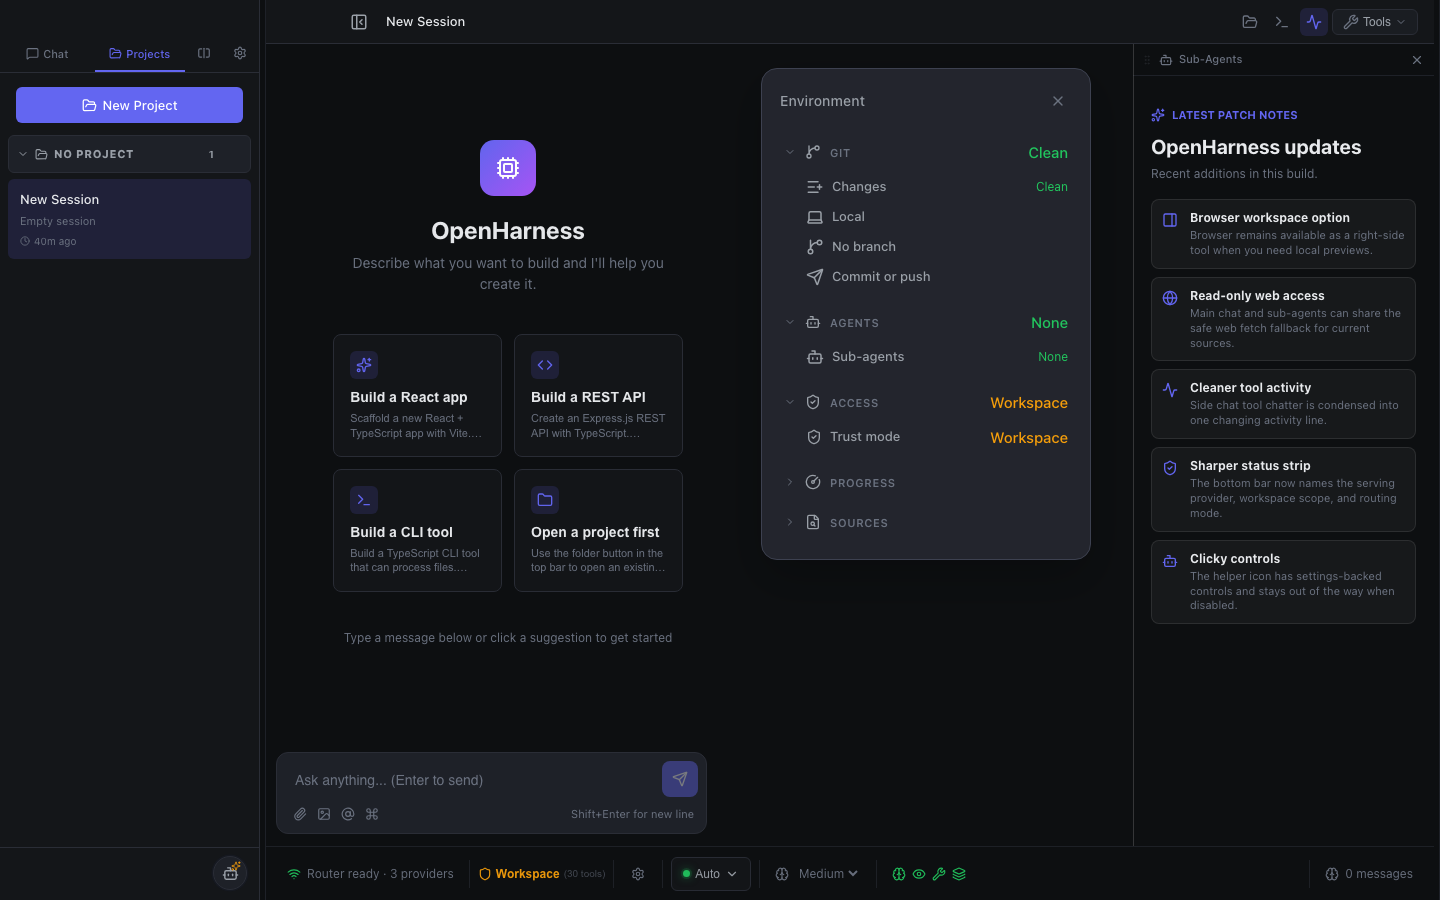
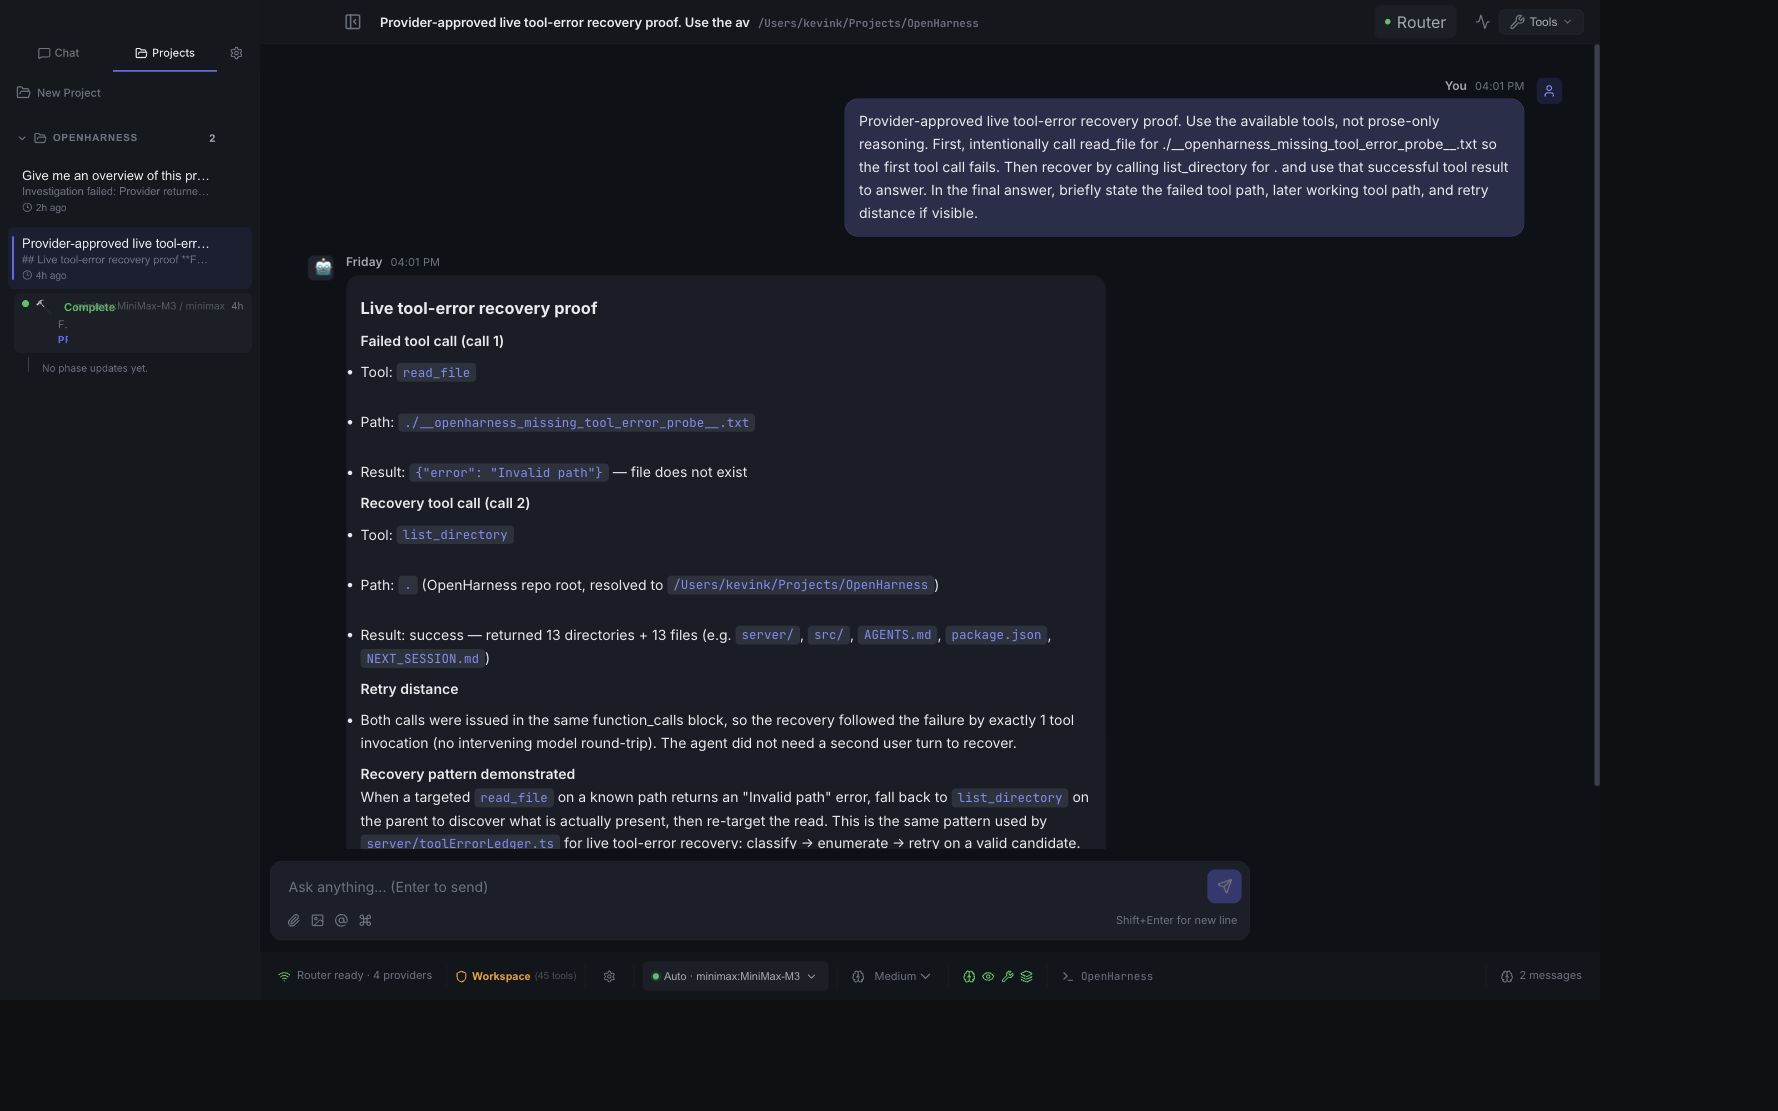
Refresh public README and screenshots

diff --git a/README.md b/README.md
@@ -4,34 +4,62 @@
   <img src="public/openharness-icon.png" alt="OpenHarness icon" width="96" height="96">
 </p>
 
-OpenHarness is a local-first AI workbench for running, routing, evaluating, and coordinating coding agents across model providers. It keeps chat, models, provider health, MCP tools, routing signals, and review surfaces in one dense workspace so you can see what the harness is doing while you work.
+OpenHarness is a local-first AI workbench for people who use more than one model, more than one provider, and more than one kind of coding agent. It brings chat, model routing, provider health, MCP tools, run traces, eval feedback, and review surfaces into one dense desktop workspace so you can see what the harness is doing while it works.
 
 > **Source-available preview:** OpenHarness is being built in public for evaluation, discussion, and feedback. It is not open-source licensed yet. Please do not redistribute, repackage, offer as a hosted service, or use the code commercially without written permission. See [LICENSE](LICENSE) and [CONTRIBUTING.md](CONTRIBUTING.md).
 
-![OpenHarness workspace](docs/screenshots/openharness-workspace.png)
+![OpenHarness workspace showing a completed tool-recovery run](docs/screenshots/openharness-workspace.png)
 
-## Why It Exists
+## What Makes It Different
 
-Most AI coding setups treat model choice, provider setup, tools, evals, and project context as separate chores. OpenHarness pulls those controls into the work surface:
+Most AI coding tools hide the routing layer. OpenHarness makes that layer visible, configurable, and reviewable.
 
-- Pick the right model for the task, or let Auto-Router choose from configured candidates.
-- Assign different models to planner, coder, reviewer, reasoner, summarizer, worker, and title roles.
-- Watch orchestration unfold in the main chat through transient router, model, phase, and tool bubbles while the final answer is being prepared.
-- Keep provider setup, model cards, MCP tools, patch review, files, terminal state, and project memory nearby.
-- Run evals and routing checks without leaving the harness.
+- **Model routing is a first-class workflow.** Auto-Router scores configured candidates for each task, applies cost and capability gates, and records why a model was selected.
+- **Agents have roles, not just model IDs.** Planner, coder, reviewer, reasoner, summarizer, worker, and title roles can each use different models and prompting strategies.
+- **The UI shows the work, not only the answer.** Active runs expose phase state, tool calls, provider choice, proof, replay signals, and recovery paths.
+- **Provider failure is treated as runtime behavior.** Transient overloads and rate-limit-style failures can retry and fail over to other configured models before ending a turn.
+- **Tool recovery is measurable.** OpenHarness records tool-error recovery evidence so routing can learn which model/tool/provider paths recover cleanly.
+- **Model trust surfaces are built in.** Model Lab, Routing Learning, eval proof status, prompt strategies, tool reliability, budgets, and provider rate limits all live in the app.
+- **Local-first by default.** Provider config, routing ledgers, sessions, and desktop runtime state live locally rather than in a hosted control plane.
 
-## Core Surfaces
+## Screenshots
 
-| Surface | What it is for |
+### Agent Detail And Run Replay
+
+Each run can be inspected as a work object: role, model, provider, status, final-answer proof, tool calls, context files, isolated worktrees, steering events, and replay artifacts are grouped in one place.
+
+![OpenHarness agent detail view](docs/screenshots/openharness-agent-detail.png)
+
+### Auto-Router And Evidence
+
+Auto-Router uses a classifier model to choose from active candidates, then layers in candidate cards, eval proof trust, tool-error evidence, freshness checks, and effective-cost preferences.
+
+![OpenHarness Auto-Router settings](docs/screenshots/openharness-model-routing.png)
+
+## Core Capabilities
+
+| Capability | Why it matters |
 | --- | --- |
-| **Chat workspace** | Project-aware sessions, markdown/code rendering, live team-room bubbles, tool output, patch surfaces, memory context, and a compact composer. |
-| **Model Library** | Dense model cards with strengths, weaknesses, comparable models, context, category, cost, and routing hints. |
-| **Agent Roles** | Role-specific model assignments so every task does not use the same generic chat model. |
-| **Auto-Router** | Task-fit scoring across configured candidates, with relative cost used as a tie-break among viable options. |
-| **Provider setup** | Hosted and local model providers, model fetch, enablement, testing, active model selection, and plan-aware access settings. |
-| **MCP tools** | Docker MCP status, curated tools, custom server registration, readiness checks, and tool policy hardening. |
-| **Model Lab** | Prompt-suite runs, output comparison, and recommendations that can feed better defaults. |
-| **Desktop shell** | Electron packaging for people who want OpenHarness as a local app instead of only a browser tab. |
+| **Auto-Router** | Chooses a model per task from configured candidates instead of forcing every request through one default model. |
+| **Agent Roles** | Assigns specialized models to coder, reviewer, planner, reasoner, summarizer, worker, and title generation roles. |
+| **Provider Hub** | Manages hosted and local providers, model fetching, enabled models, active model selection, health checks, budgets, and rate limits. |
+| **Live Orchestration** | Surfaces route decisions, agent phases, model requests, tool calls, recovery, and final answer proof while work is happening. |
+| **MCP Tooling** | Connects Docker MCP tools, curated tools, custom servers, trust-mode filtering, and tool readiness checks. |
+| **Model Library** | Presents model cards with strengths, weaknesses, context limits, provider availability, role fit, and routing hints. |
+| **Model Lab** | Runs prompt suites across model sets and produces recommendations that can inform role defaults and router candidates. |
+| **Routing Learning** | Tracks prompt strategy evidence, tool reliability, recovery paths, eval proof status, and source-tagged routing recommendations. |
+| **Review Surfaces** | Keeps artifacts, patch review, validation evidence, confidence signals, and next actions inspectable without crowding the main answer. |
+| **Desktop Shell** | Runs as a Vite web app or an Electron desktop app for local workflows. |
+
+## A Typical Workflow
+
+1. Add providers and fetch available models.
+2. Enable the models you actually want in the harness.
+3. Assign model defaults for agent roles.
+4. Configure Auto-Router candidates and threshold.
+5. Ask for direct answers, investigation, execution, review, or comparison.
+6. Watch the live run state and inspect proof when the answer lands.
+7. Feed routing outcomes back through Model Lab, Routing Learning, and eval evidence.
 
 ## Quick Start
 
@@ -57,112 +85,51 @@ npm run electron
 
 ## Configuration
 
-OpenHarness reads provider and runtime settings from the app configuration, commonly `~/.openharness/config.json`, and environment variables loaded through `dotenv`.
+OpenHarness reads provider and runtime settings from `~/.openharness/config.json` and environment variables loaded through `dotenv`.
 
 Provider presets currently cover OpenAI-compatible services and local runtimes, including OpenAI, Anthropic, Google, MiniMax, DeepSeek, xAI, Mistral, Z.AI, Moonshot, Alibaba Qwen, OpenRouter, Ollama, and LM Studio. Most hosted providers use the OpenAI-compatible chat completions shape; Anthropic and Google use dedicated adapters.
 
-Useful setup flow:
+Recommended setup path:
 
 1. Open Settings.
 2. Add or test providers.
 3. Fetch provider models and enable the models you want available.
-4. Use **My Models** to choose the active chat model.
-5. Use **Agent Roles** to assign role-specific models.
-6. Enable Auto-Router when you want task-level model selection.
+4. Use **Active Model** for the default chat model.
+5. Use **Agent Roles** for role-specific model assignments.
+6. Use **Auto-Router** when you want task-level model selection.
+7. Use **Routing Learning** and **Model Lab** to inspect evidence and tune candidates over time.
+
+## Routing Architecture
+
+OpenHarness has two routing layers:
+
+- **Heuristic Router**: classifies a message into `direct`, `investigate`, `execute`, or `compare` mode, plus an agent role and complexity.
+- **Auto-Router**: scores configured candidate models against the task signal, then chooses the lowest-cost viable model above the quality threshold.
+
+`server/orchestrator.ts` owns orchestration behavior. It coordinates the research, execution, review, comparison, and synthesis paths while the server records trace events for the UI.
 
 ## Model Intelligence
 
-The model knowledge base lives in [src/data/modelCatalog.ts](src/data/modelCatalog.ts). It powers the Model Library, hover descriptions, routing hints, color-coded model categories, and model-card UI.
-
-When adding providers, role defaults, router candidates, or model-specific prompting behavior, update the catalog as part of the same change. The maintenance guide and external refresh anchors are documented in [docs/MODEL_LANDSCAPE.md](docs/MODEL_LANDSCAPE.md).
+The model knowledge base lives in [src/data/modelCatalog.ts](src/data/modelCatalog.ts). It powers the Model Library, hover descriptions, routing hints, model categories, provider availability, and model-card UI.
 
 Related references:
 
 - [docs/MODEL_PROMPTING_GUIDE.md](docs/MODEL_PROMPTING_GUIDE.md): model-family prompting behavior and system prompt strategy.
 - [docs/MODEL_LANDSCAPE.md](docs/MODEL_LANDSCAPE.md): model catalog snapshot, role recommendations, providers, and pricing notes.
-- [AGENTS.md](AGENTS.md): project rules, routing architecture, validation expectations, and current engineering constraints.
+- [docs/PREMIER_HARNESS_KICKOFF.md](docs/PREMIER_HARNESS_KICKOFF.md): current product overhaul direction.
+- [AGENTS.md](AGENTS.md): project rules, routing architecture, validation expectations, and engineering constraints.
 
-## Live Orchestration UX
-
-When Auto-Router selects an orchestration mode, OpenHarness now fills the main chat with transient activity bubbles instead of leaving the user staring at an empty assistant response. Router choices, planning-room phases, model requests, model output summaries, and tool activity each get their own compact bubble with a label and icon. These updates are client-only progress UI; they are not written into the saved session transcript.
-
-The durable assistant message still stores only the final answer. Reasoning-capable providers may also emit live thinking progress before answer text begins; that indicator clears when final answer text starts streaming.
-
-Review and investigation runs can also attach structured artifacts to the final answer. Evidence and review findings stay collapsed by default, while file, line, severity, evidence, and suggested action metadata remain available for inspection in the artifact drawer when the model output includes those signals.
-
-Execute-mode reports lead with delivery status, changed-file proof, concise phase summaries, review outcome, and residual risk so raw planner or patch transcripts do not crowd the final answer.
-
-Compare-mode reports lead with a verdict and compact model snapshot, then disclose residual risk when the judge phase or one of the candidate models fails.
-
-Direct single-model answers also get a final cleanup pass that removes transcript labels, leading process sections, and internal preamble while preserving normal first-person answers.
-
-## Premier Harness Work
-
-The current premier-harness pass is tracked in [docs/PREMIER_HARNESS_KICKOFF.md](docs/PREMIER_HARNESS_KICKOFF.md) with closeout evidence under [docs/proof/](docs/proof/). The work emphasizes a flatter chat-first default UI, clearer agent work ownership, calmer artifact review, accessible theme texture handling, and model-harness trust surfaces.
-
-### Current active slice (2026-06-17)
-
-- Chat layout is now flat by default:
-  - `sub-agents` has been removed as a fixed default panel and is no longer force-hidden list-driven in layout config.
-  - Right side context remains on demand and can still be opened from the standard tools flow.
-  - Environment rail starts hidden by default until user opens it or active work warrants visibility.
-- Message chrome is quieter by default:
-  - Confidence, run replay, prompt microscope, artifacts, and next actions are behind a single Details toggle.
-  - The default assistant stream remains readable prose unless the user asks for depth.
-- Tool/retry evidence is already wired into the routing loop via prompt strategy IDs, per-model/tool stats, and retry-reduction rows in auto-router candidate enrichment.
-
-This slice maps to Phase 1 and Phase 4 in [docs/PREMIER_HARNESS_KICKOFF.md](docs/PREMIER_HARNESS_KICKOFF.md) and is currently represented in the working tree as client-only changes.
-
-Recent trust-surface improvements include:
-
-- Model Library capability scorecards with strengths, weaknesses, fit reasons, cost/context signals, and provider availability.
-- Auto-Router candidate cards and Prompt Microscope route explanations that distinguish selected models from rejected alternatives.
-- Model Lab, Routing Learning, Agent Roles, provider health, budget, and rate-limit controls with clearer proof/review states.
-- Artifact Drawer, Team Plan, and Patch Review validation gates that make plans, artifacts, validation proof, and replay feedback easier to inspect.
-- Phase 7 routing-memory work adds versioned model-family prompt strategies plus role/task variants, and records strategy id/family/style/variant in run traces for same-model strategy comparisons.
-- The same layer now also supports model-id based prompt-strategy overrides (for example OpenAI reasoning IDs like `o1`/`o3`, including provider-prefixed forms like `openai/o1-mini` and `provider:o3-mini-high`) so routing can keep a common family base while selecting dedicated contracts for selected model families.
-- Prompt strategy profile source provenance now includes primary family references (for example Llama prompt-format contracts and Gemma/Phi chat template guidance), so prompt strategy changes can be traced back to model-provider documentation before routing default updates.
-- Tool-call reliability now aggregates per-model/provider/tool outcomes with retry distance and first-call failure signals so routing can prefer lower-friction recovery paths.
-- Tool-error recovery memory writes an append-only run-level ledger under `~/.openharness/router-learning/tool-error-ledger.jsonl` and can synthesize log-derived rows from reconstructed run traces, so routing can compare first-call failures against later recovery paths (`model/tool/provider`, retry distance, final answer outcome, evidence source, and session/run breadcrumbs).
-- Use `GET /api/router/learning/tool-errors` to inspect this evidence in JSON.
-- Prompt assembly now suppresses explicit "think step by step" triggers for prompt strategies with native or brief-private-plan reasoning contracts (for example OpenAI reasoning/Claude/Qwen/XML strategies), while keeping explicit step-by-step prompts available for strategies that still benefit from them.
-- Tool-reliability evidence is now cached in `~/.openharness/router/toolReliabilityCache.json` and rebuilt only when saved-session or process-log fingerprints change, reducing repeated aggregation overhead while preserving fresh recovery/retry evidence.
-- Auto-Router and Routing Learning now expose evidence-source-tagged avoid/prefer recommendations (`saved_session_trace`, `log_trace`, `imported_trace`) with supporting session/run ids for audit.
-- Auto-Router candidate traces now include structured eval evidence metadata (`approved`, `unreviewed`, `needs-attention`) so candidate rows and settings surfaces can filter prompt-strategy guidance by proof trust level.
-- Routing Learning exports now also include provider-qualified recovery and outcome evidence assertions so exported model/prompt strategy rows can be traced to the exact failing and working model/tool path.
-- Routing Learning brief exports now include an explicit evidence-source coverage summary so reviewers can see at a glance which trace source families are currently represented in routing evidence.
-- Model Lab added frontier vs open-source source filtering for enabled model sets so prompt strategy and routing comparisons can isolate local/open models from hosted frontier providers in the same run.
-
-Use [docs/PREMIER_HARNESS_PROOF_CHECKLIST.md](docs/PREMIER_HARNESS_PROOF_CHECKLIST.md) and the closeout proof notes before calling the overhaul done. Final release proof still requires the relevant browser/manual proof plus the validation commands listed below.
-
-If you are validating the Phase 7 prompt/routing memory loop specifically, run:
-
-```bash
-npm run test:prompt-strategy-database
-npm run test:prompt-routing-memory
-npm run test:tool-reliability
-npm run test:tool-reliability-cache
-npm run test:premier-stop-condition-audit
-```
-
-## Architecture
+## Project Layout
 
 ```text
 OpenHarness
 ├── src/                  React UI, panels, settings, model catalog, themes
 ├── server/               Express API, provider adapters, orchestration, routing
 ├── electron/             Desktop shell entry points
-├── docs/                 model, routing, planning, and implementation notes
+├── docs/                 model, routing, planning, screenshots, proof notes
 ├── scripts/              smoke tests, hardening checks, startup helpers
 └── public/               static assets, including the OpenHarness icon
 ```
-
-Core routing has two layers:
-
-- **Heuristic Router**: classifies a message into direct, investigate, execute, or compare mode plus an agent role and complexity.
-- **Auto-Router**: scores configured candidate models against the task signal and chooses the lowest-cost viable model.
-
-`server/orchestrator.ts` owns orchestration behavior. Keep mode-specific branching there instead of spreading orchestration decisions through request handlers.
 
 ## Validation
 
@@ -173,19 +140,15 @@ npm run lint
 npm run build
 ```
 
-Additional targeted checks:
+Useful targeted checks:
 
 ```bash
-npm run test:hardening
+npm run test:prompt-routing-memory
+npm run test:tool-reliability
+npm run test:theme-accessibility
 npm run smoke:tool-boundaries
 npm run smoke:docker-ui
 npm run smoke:ui-clicks
-```
-
-The standalone Neon Decade Descent browser game used for human-facing artifact checks lives outside this repository at `../neon-decade-descent` by default, so it is not uploaded with OpenHarness. To run its checks from this repo, keep the folder beside `OpenHarness` or set `OPENHARNESS_NEON_DECADE_DIR` to its absolute path, then run:
-
-```bash
-npm run ship:check:neon-decade
 ```
 
 For runtime sanity:
@@ -215,6 +178,12 @@ Build output is written to `release/`. The web build output is written to `dist/
 - Markdown rendering with syntax highlighting
 - MCP server integrations
 
+## Build In Public Status
+
+OpenHarness is public so people can follow the work, try it locally, open issues, and discuss direction. It is currently source-available rather than open-source licensed.
+
+Feedback is welcome through GitHub Issues and Discussions. Contributions are governed by [CONTRIBUTING.md](CONTRIBUTING.md).
+
 ## License
 
-OpenHarness is currently source-available, not open-source licensed. All rights are reserved unless explicit written permission is granted. Public feedback is welcome through issues, discussions, and pull requests under the terms in [CONTRIBUTING.md](CONTRIBUTING.md).
+OpenHarness is currently source-available, not open-source licensed. All rights are reserved unless explicit written permission is granted. See [LICENSE](LICENSE).